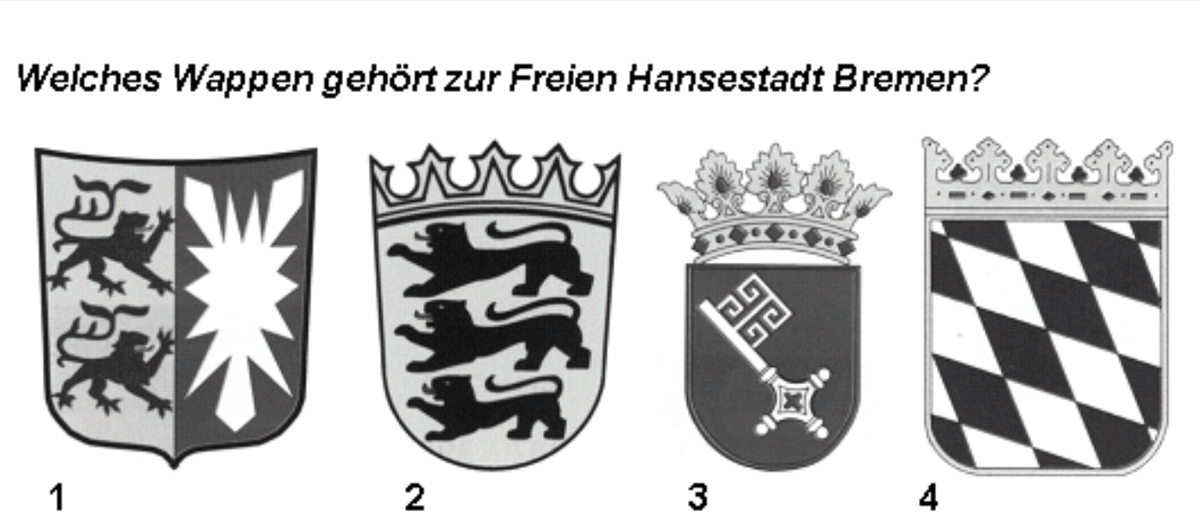
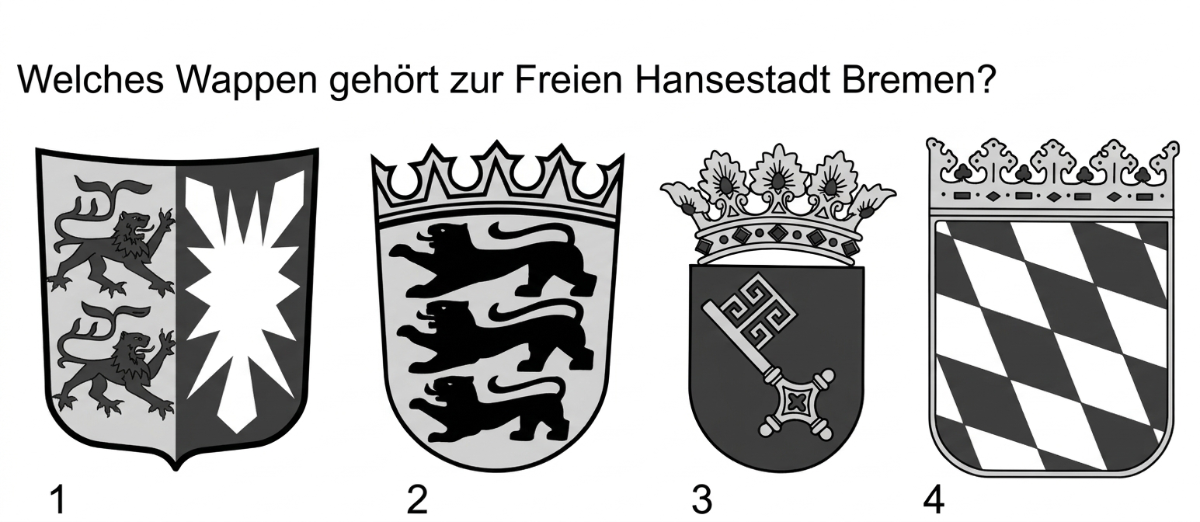
Replace Bremen and Hessen images with corrected redraws

diff --git a/README.md b/README.md
@@ -38,7 +38,7 @@ No web server is required; `data/questions.js`, `data/vocabulary.js` and `data/i
[1 lines of base64/hex data omitted]
   <https://www.bamf.de/SharedDocs/Anlagen/DE/Integration/Einbuergerung/gesamtfragenkatalog-lebenindeutschland.html?nn=284310>
 - **Answers, English translations, explanations and images**: [abdullahbutt/leben-in-deutschland-test](https://github.com/abdullahbutt/leben-in-deutschland-test), version 2026-10-28. **The German question and option wording is taken verbatim from the official BAMF PDF**; the dataset supplies the answer key, English translations, explanations and images. The translations and explanations are licensed under **CC BY-NC 4.0** (attribution, non-commercial use). `data/overrides.json` contains manual corrections for the few items where the dataset described a different paraphrase (e.g. B232, B247, HB02, SN07).
-- **Redrawn images**: `data/images/21.png`, `data/images/55.png`, `data/images/70.png`, `data/images/130.png`, `data/images/176.png`, `data/images/181.png`, `data/images/187.png`, `data/images/209.png`, `data/images/216.png`, `data/images/226.png`, `data/images/235.png`, `data/images/301-baden-wuerttemberg.png`, `data/images/301-berlin.png` and `data/images/301-brandenburg.png` are redrawn replacements added for this project; the remaining images come from the dataset.
+- **Redrawn images**: `data/images/21.png`, `data/images/55.png`, `data/images/70.png`, `data/images/130.png`, `data/images/176.png`, `data/images/181.png`, `data/images/187.png`, `data/images/209.png`, `data/images/216.png`, `data/images/226.png`, `data/images/235.png`, `data/images/301-baden-wuerttemberg.png`, `data/images/301-berlin.png`, `data/images/301-brandenburg.png`, `data/images/301-bremen.png` and `data/images/301-hessen.png` are redrawn replacements added for this project; the remaining images come from the dataset.
 - **BB01 answer correction**: the official BAMF page shows the Brandenburg eagle as **Bild 1**; `data/overrides.json` pins `correct: 0`, overriding the dataset's incorrect Bild 4 mapping.
 - This is an independent learning app, not an official BAMF product. Use is intended for personal, non-commercial exam preparation.
 
